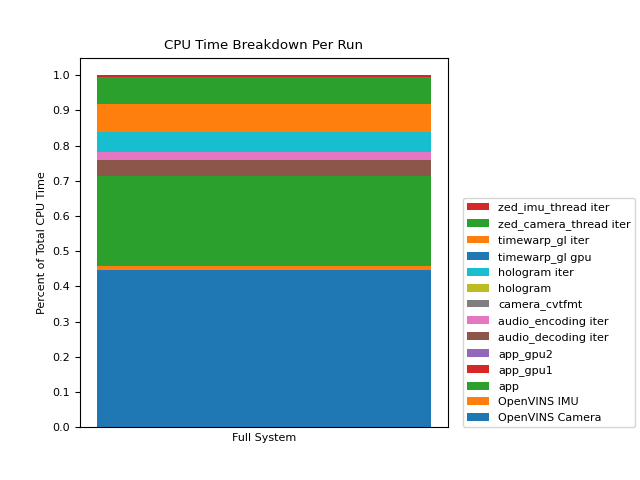
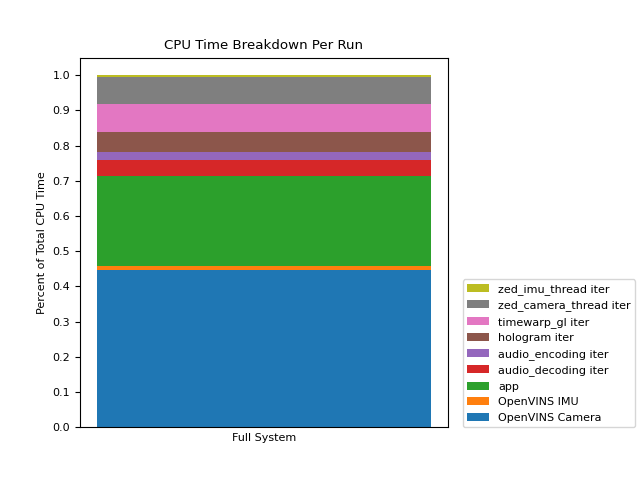
Add omitted fields to stacked bars and regen grpahs

Changed region(s): [[0.125, 0.1562, 0.6875, 0.375], [0.7188, 0.4062, 1.0, 0.7812]]

diff --git a/analysis/main.py b/analysis/main.py
@@ -495,7 +495,7 @@ def get_data(metrics_path: Path) -> Tuple[Any]:
 
         return ts, summaries, switchboard_topic_stop, thread_ids, warnings_log
 
-FILE_NAME = "desktop-sponza"
+FILE_NAME = "desktop-demo"
 
 @ch_cache.decor(ch_cache.FileStore.create("../metrics-" + FILE_NAME))
 def get_data_cached(metrics_path: Path) -> Tuple[Any]:
@@ -544,7 +544,7 @@ with ch_time_block.ctx("generating combined timeseries", print_start=False):
     total_cpu_time = 0.0
     plt.rcParams.update({'font.size': 8})
 
-    ignore_list = ['opencv', 'Runtime']
+    ignore_list = ['opencv', 'Runtime', 'camera_cvtfmt', 'app_gpu1', 'app_gpu2', 'hologram', 'timewarp_gl gpu']
     # plot the same data on both axes
     for account_name in account_names:
         if account_name in ignore_list:
